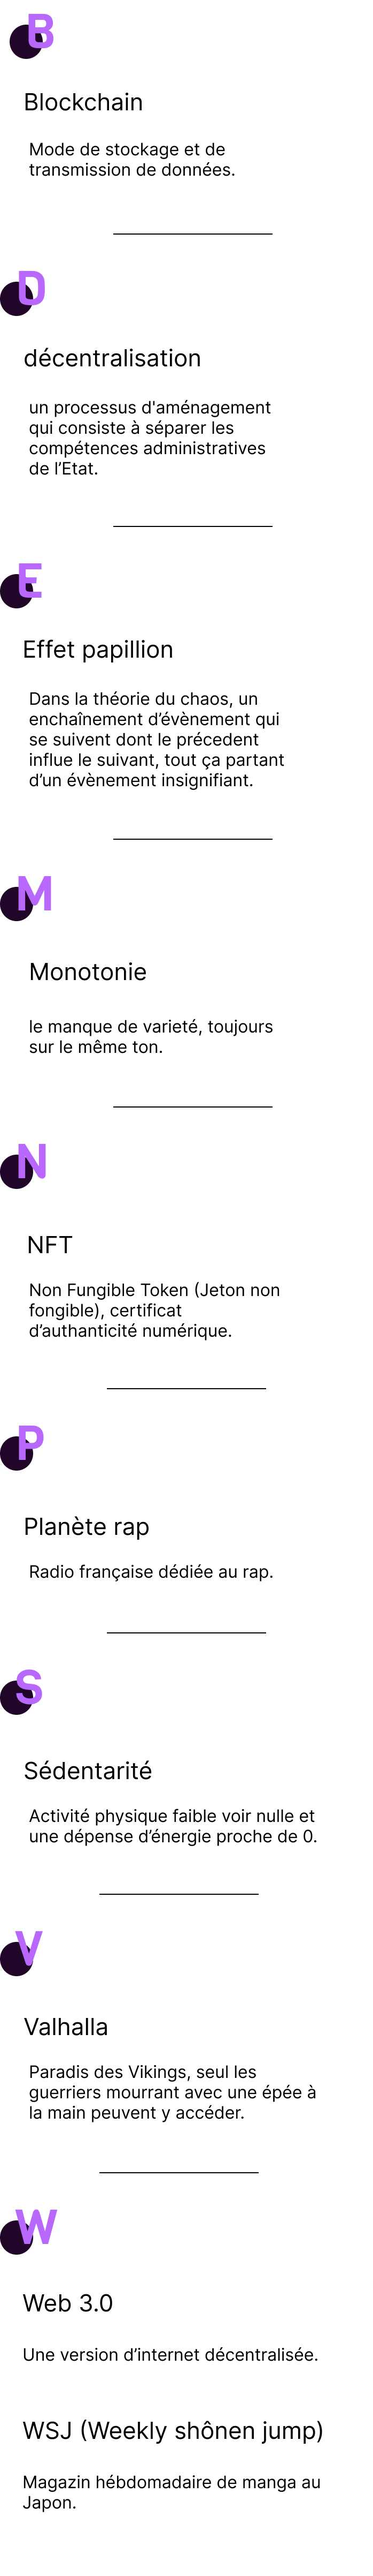
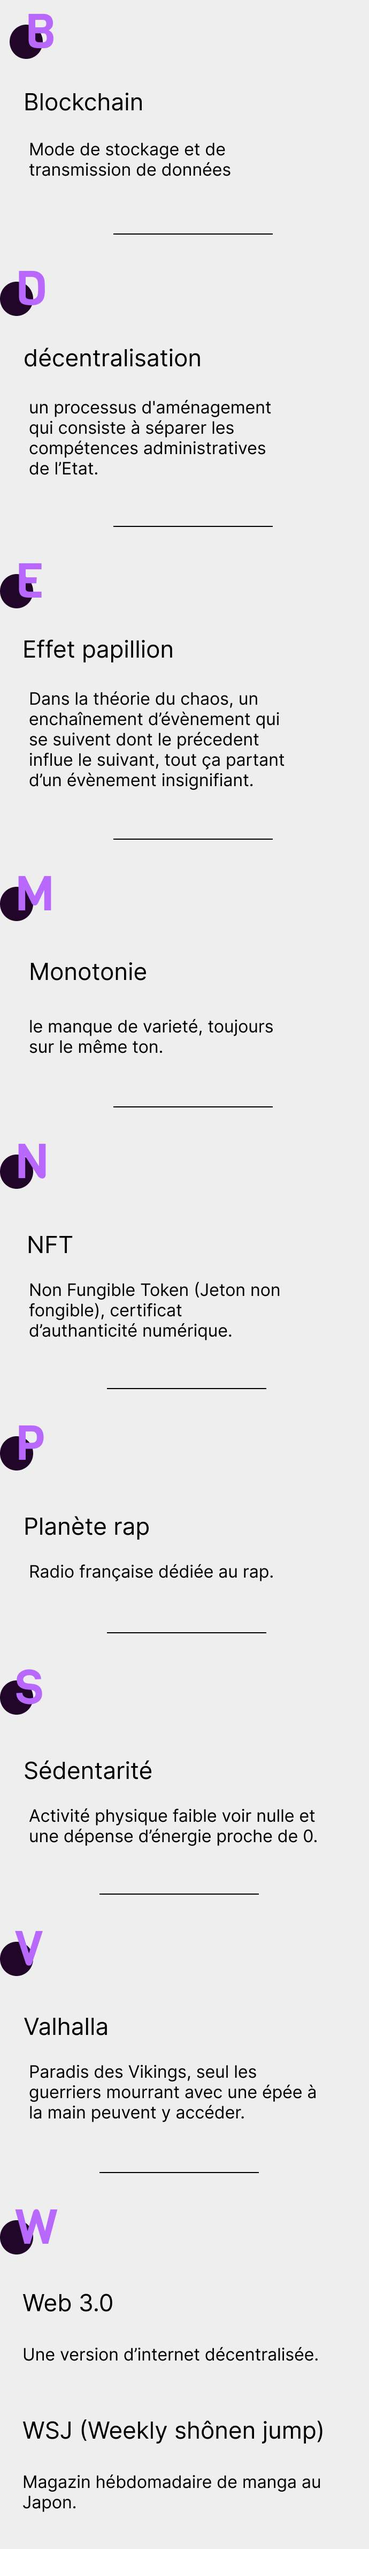
Modif glossaire

diff --git a/src/css/base/main.css b/src/css/base/main.css
@@ -13,7 +13,7 @@ a{
 
 body {
   line-height: 1.6;
-  background-color: #f2f2f2;
+  background-color: #EEEEEE;
 }
 
 h1, h2 {
